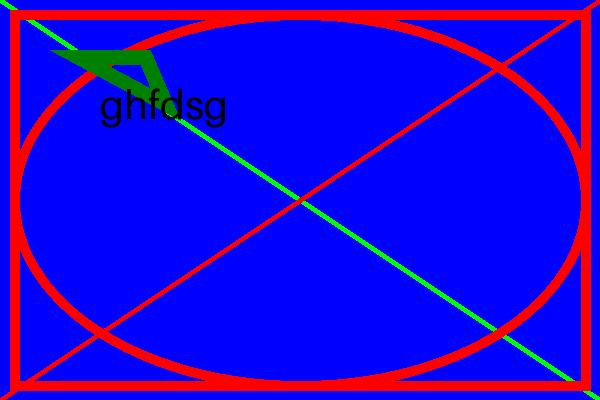
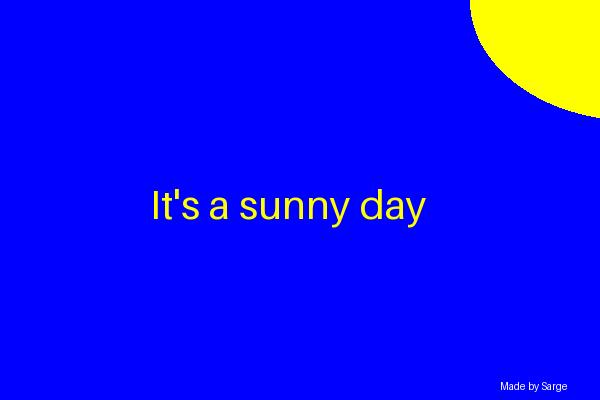
H/W done?

Changed region(s): [[0.0, 0.0, 1.0, 1.0]]

diff --git a/main.py b/main.py
@@ -1,26 +1,11 @@
-# Вешние библиотеки
-# Графика
-# PIL - Pythom Imagine Library (pillow - подушка)
-# Команды в терминал:
-# pip install pillow
-# pip freeze > requirements.txt - создание файла зависимости
-# pip install -r requirements.txt - установка списка библиотек
-# PyPI - Python Package Index (pypi.org)
+
 from PIL import Image, ImageDraw
+from PIL.ImageFont import ImageFont
 
-RED = (255, 0, 0)
-POLY = [(50, 50), (150, 50), (180, 120)]
 image = Image.new('RGB', (600, 400), (0, 0, 255))
-
 draw = ImageDraw.Draw(image)
 
-draw.line((0, 0, 600, 400), fill=(0, 255, 0), width=5)
-draw.line((600, 0, 0, 400), fill=RED, width=5)
-draw.rectangle((10, 10, 590, 390), outline=RED, width=10)
-draw.ellipse((10, 10, 590, 390), outline=RED, width=10)
-draw.polygon(POLY, outline='green', width=15)
-draw.text((100, 80), text='ghfdsg', fill=(0, 0, 0), font_size=40)
-
-
+draw.ellipse((470, -120, 800, 120), outline='yellow', fill='yellow')
+draw.text((150, 180), text="It's a sunny day", fill='yellow', font_size=40)
+draw.text((500, 380), text="Made by Sarge", fill='white', font_size=10)
 image.save('images/deep_blue.jpg')
-
